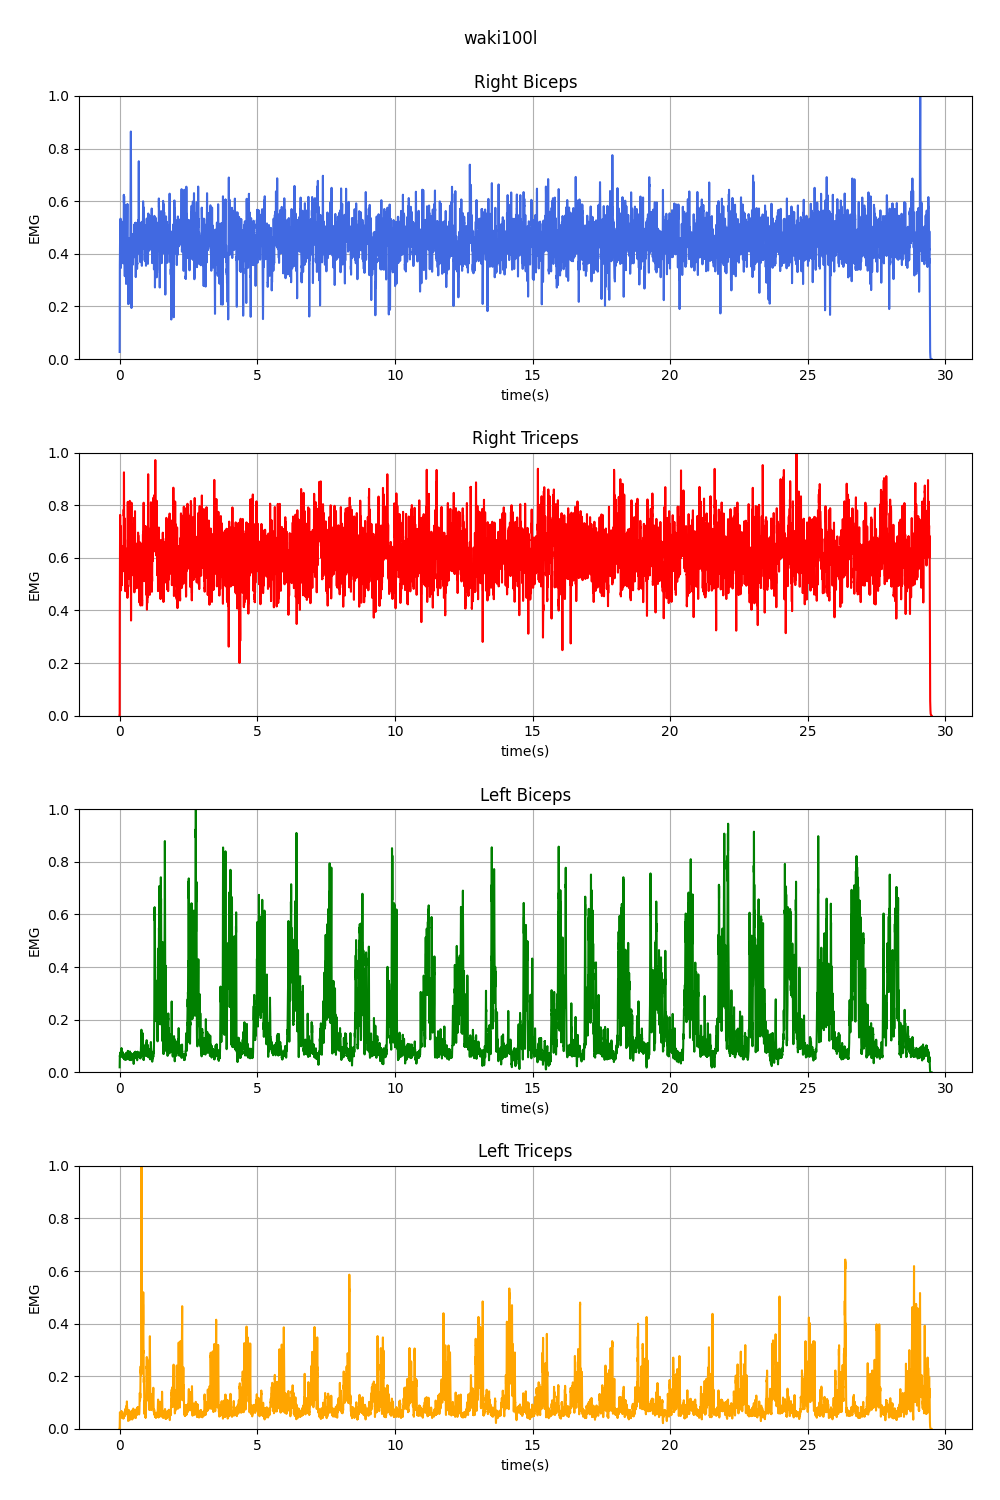
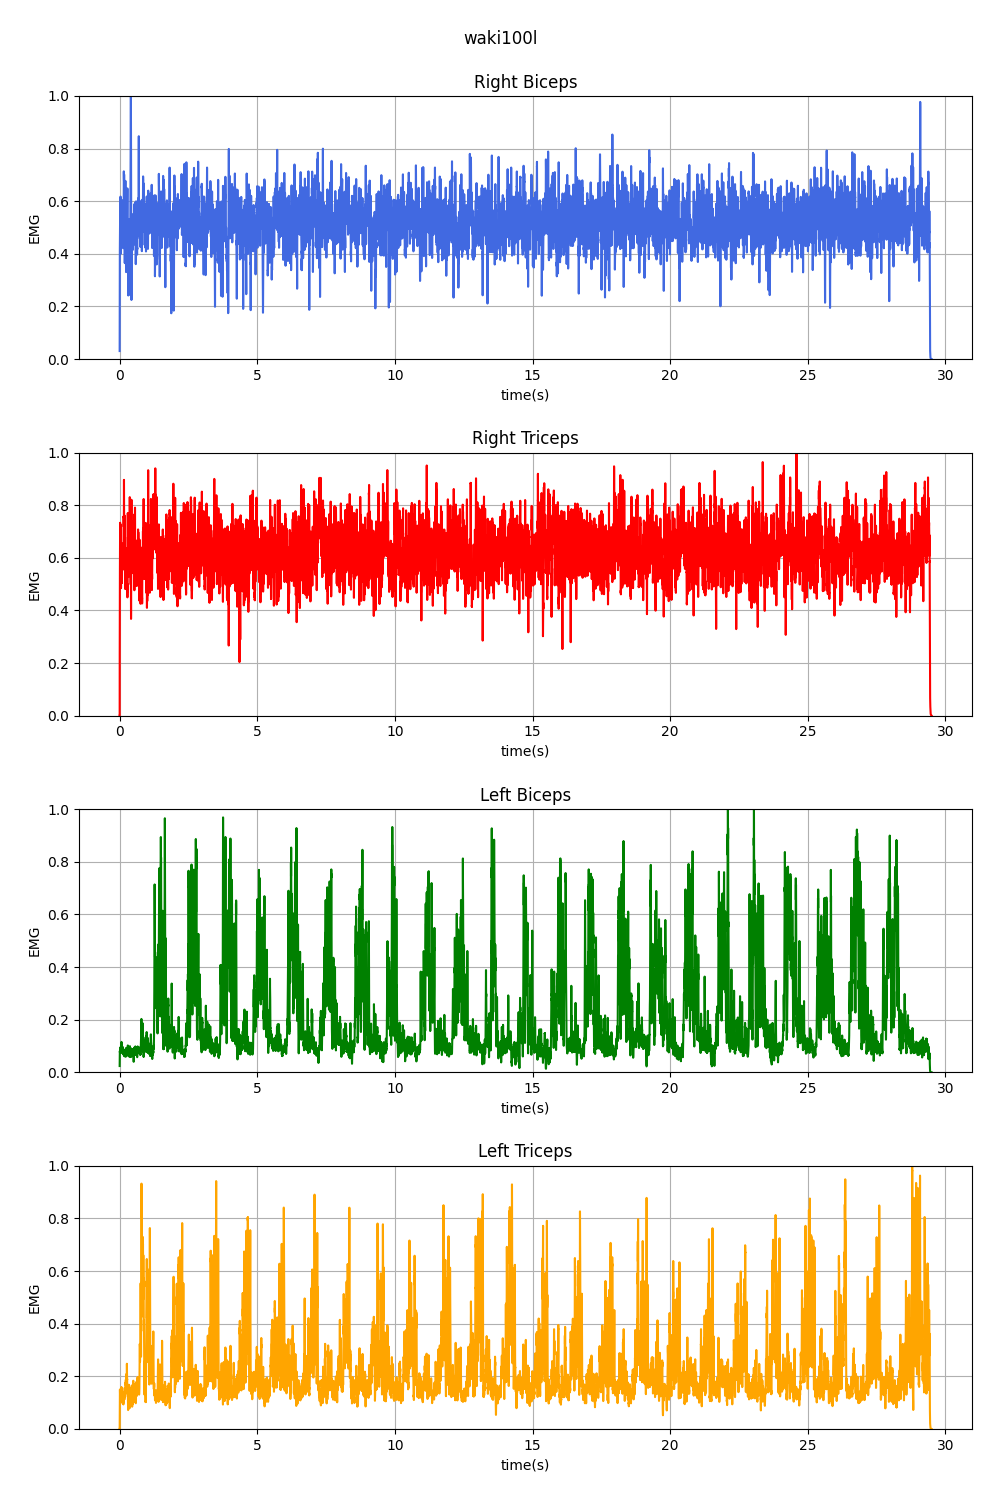
add VAF

diff --git a/util.py b/util.py
@@ -36,6 +36,37 @@ def load_csv(folder_path):
     
     return datas
 
+def plot_bar(H, type, n_conponents, name, save_path):
+    if type == 'r':
+        labels = list(num2muscle.values())[:2]
+        n_muscle = 2
+    elif type == 'l':
+        labels = list(num2muscle.values())[2:]
+        n_muscle = 2
+    elif type == None:
+        labels = list(num2muscle.values())
+        n_muscle = 4
+
+    #サブプロットの設定
+    if n_conponents > 1:
+        fig , axes = plt.subplots(1, n_conponents, figsize = (5*n_conponents, 5))
+        plt.suptitle("synergy={}, {}".format(n_conponents, name))  
+        plt.tight_layout() 
+        for i in range(n_conponents):
+            data = H[i, :]
+            print(data)
+            axes[i].bar(labels, data) 
+            axes[i].set_title("W{}".format(i+1))
+            axes[i].set_ylim(0, 13)
+        plt.savefig(save_path + "{}_muscle{}_synergy{}.png".format(name, n_muscle , n_conponents))
+
+    else:
+        data = H.flatten()
+        plt.bar(labels, data, linewidth = 1)
+        plt.title("synergy={}, {}".format(n_conponents, name))
+        plt.ylim(0, 13)
+        plt.savefig(save_path + "{}_muscle{}_synergy{}.png".format(name, n_muscle,  n_conponents))
+    plt.close()
 
 class Emg_processor:
     def __init__(self, sampling = 2000):
@@ -45,8 +76,8 @@ class Emg_processor:
     
     def __call__(self, emg_datas):
         self.law_emg_datas = emg_datas
-        #emg_data =  self.adjust_emg(self.law_emg_datas)
-        emg_data = self.law_emg_datas
+        emg_data =  self.adjust_emg(self.law_emg_datas)
+        #emg_data = self.law_emg_datas
         emg_data = self.high_pass_filter(emg_data)
         emg_data = self.demeaned(emg_data)
         emg_data = np.abs(emg_data)
@@ -80,10 +111,12 @@ class Emg_processor:
             emg_data = data[:, i]
             mean = np.mean(emg_data)
             std = np.std(emg_data)
-            # 正規分布の信頼区間を計算します
-            lower_bound, upper_bound = norm.interval(0.95, loc=mean, scale=std)
-            # 信頼区間から外れる値を修正します
-            adjusted_emg_data = np.clip(emg_data, lower_bound, upper_bound)
+            # # 正規分布の信頼区間を計算します
+            # lower_bound, upper_bound = norm.interval(0.95, loc=mean, scale=std)
+            # # 信頼区間から外れる値を修正します
+            lower_bound = mean - 3*std
+            upper_bound = mean + 3*std
+            adjusted_emg_data = np.clip(emg_data, lower_bound , upper_bound)
             adjusted_data[:, i] = adjusted_emg_data
         return adjusted_data
     
@@ -151,6 +184,14 @@ class Emg_processor:
         W = nmf.fit_transform(data)
         H = nmf.components_
         return W, H
+    
+    def get_VAF(self, W, H):
+        restoration = W@H #復元
+        squared_err = (self.normalized_emg_data - restoration)**2
+        squared_data = self.normalized_emg_data ** 2
+        var = np.mean(np.var(squared_err, axis=0)/np.mean(squared_data, axis=0))
+        VAF = 1 - np.mean((np.sum(squared_err, axis=0)/ np.sum(squared_data, axis=0)))
+        return VAF, var
 
 
 

diff --git a/main.py b/main.py
@@ -25,14 +25,30 @@ for name, emg_datas in all_muscle_emg_datas.items():
     elif file_name.endswith('l'):
         hand = 'l'
 
-    #W, H = processor.get_2muscle_NMF(hand = hand, conponent=1)
-    #print(np.round(W).shape, np.round(H))
-    W, H = processor.get_4muscle_NMF(conponent=3)
-    print(np.round(W).shape)
-    print(np.round(H))
-    print(np.round(W).shape, np.round(H))
-    #plt.plot(W)
-    plt.plot(W@H)
-    plt.show()
-    plt.close()
+    #2筋の1シナジーを求める
+    for i in range(2):
+        n_synergy = i+1
+        W, H = processor.get_2muscle_NMF(hand = hand, conponent=n_synergy)
+        plot_bar(H, hand, n_synergy, name, "./figure/synergy/")
+        #print(processor.get_VAF(W, H))
+
+    #4筋の1~3を調べる
+    VAFs = np.zeros(4)
+    vars = np.zeros(4)
+    for i in range(4):
+        n_synergy = i+1
+        W, H = processor.get_4muscle_NMF(conponent=n_synergy)
+        plot_bar(H, None, n_synergy, name, "./figure/synergy/")
+        VAFs[i], vars[i] = processor.get_VAF(W, H)
+    print("vars", vars)
+
+    #VAFのプロット
+    plt.errorbar([1, 2, 3, 4], VAFs, yerr=vars, fmt='o', capsize=5)
+    plt.ylim(0.5, 1.05)
+    plt.xticks(range(1,5))
+    plt.title("VAF:{}".format(name))
+    plt.xlabel("number of synergy")
+    plt.ylabel("VAF(%)")
+    plt.savefig("./figure/VAF/VAF_{}.png".format(name))
+    
 
